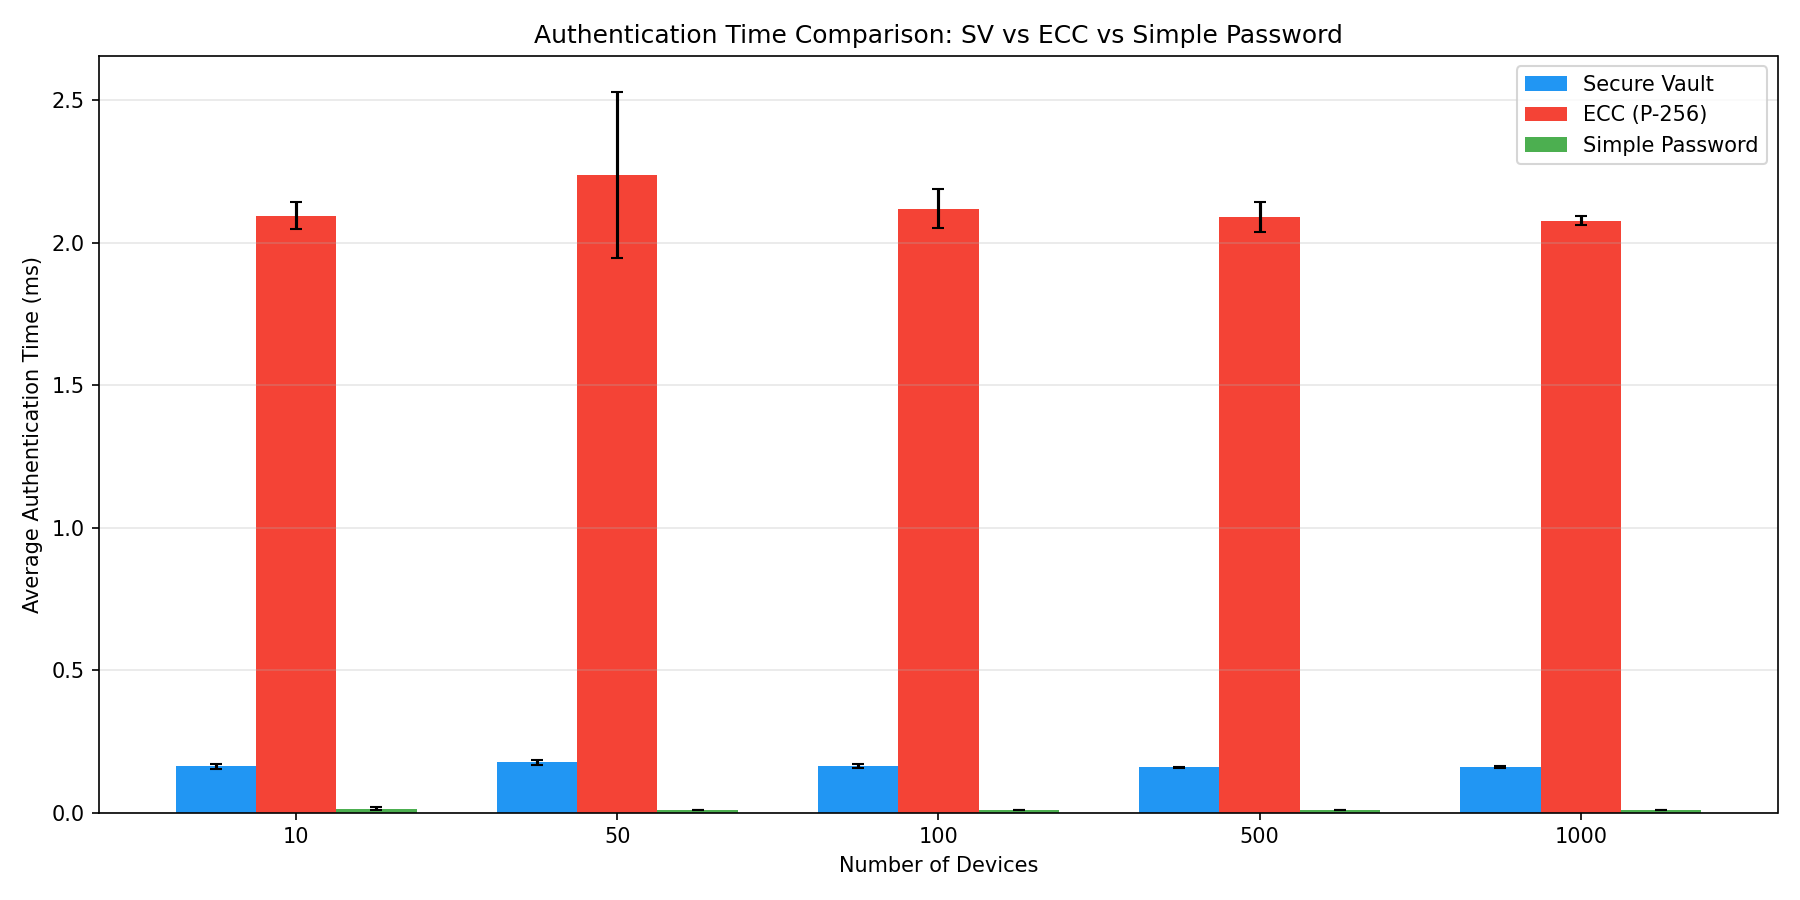
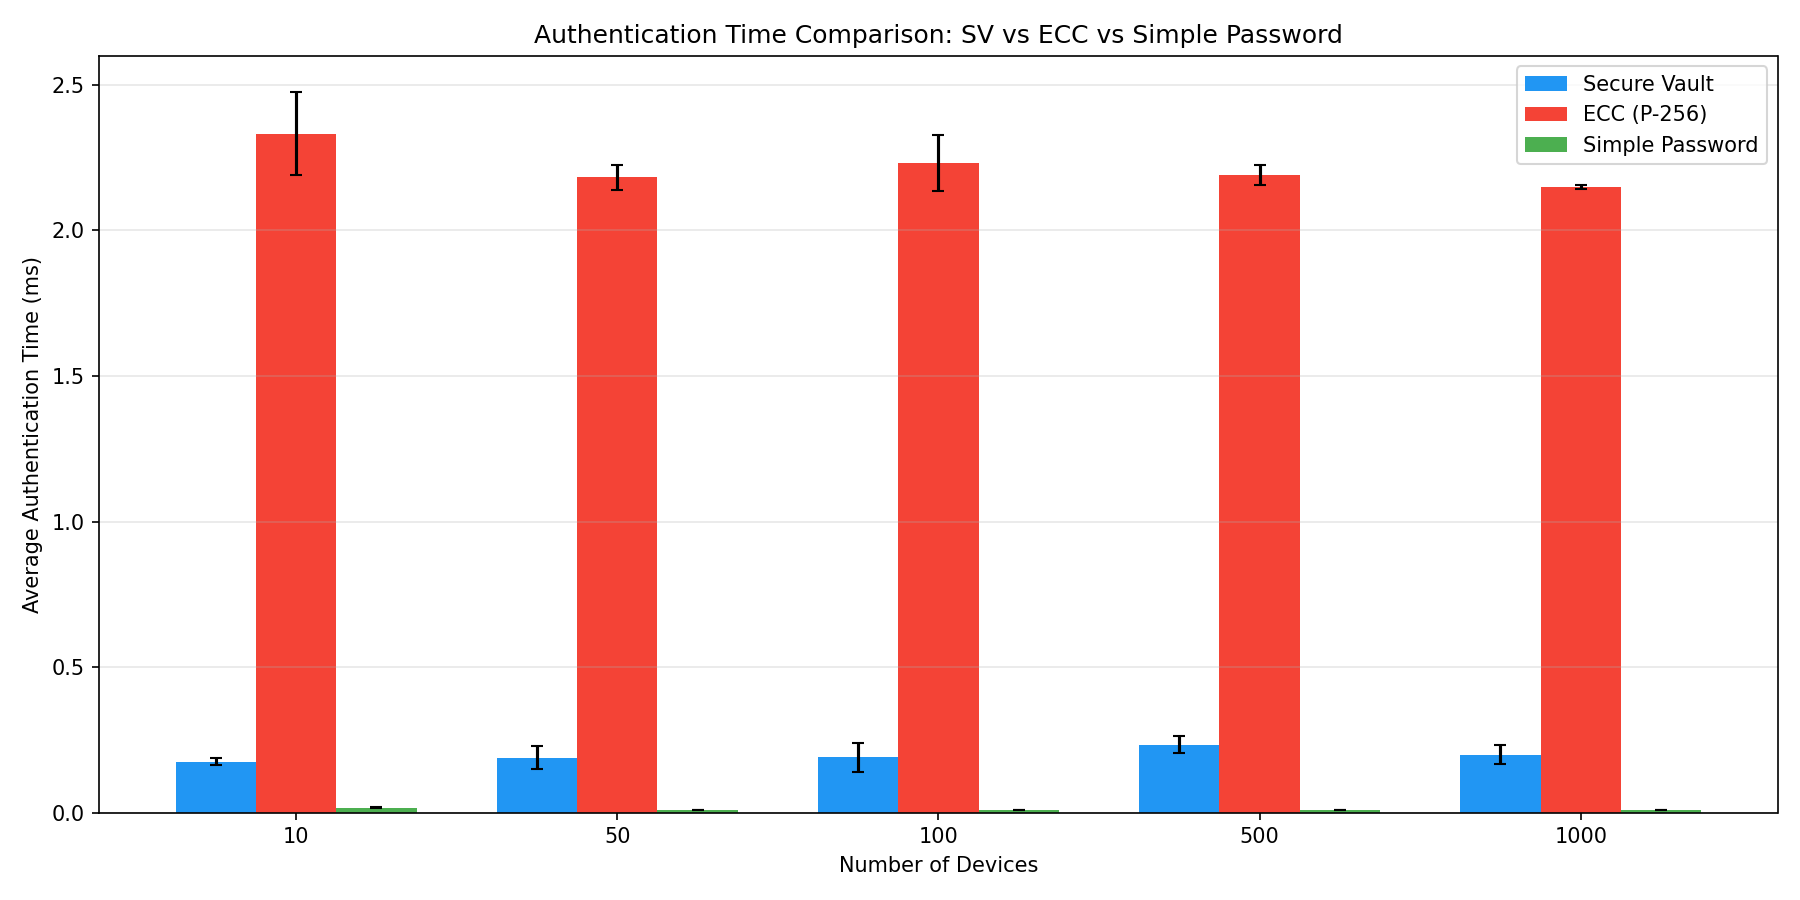
V3.0

diff --git a/main.py b/main.py
@@ -147,10 +147,17 @@ def main():
     )
     args = parser.parse_args()
 
-    # Set up logging: duplicate all print output to a .log file
+    # Determine log filename based on mode
     timestamp = datetime.now().strftime("%Y%m%d_%H%M%S")
+    if args.demo:
+        log_name = f"protocol_demo_{timestamp}.log"
+    elif args.experiment:
+        log_name = f"experiments_{timestamp}.log"
+    else:
+        log_name = f"demo_and_experiments_{timestamp}.log"
+
     log_dir = os.path.join(os.path.dirname(__file__), "results")
-    log_path = os.path.join(log_dir, f"simulation_output_{timestamp}.log")
+    log_path = os.path.join(log_dir, log_name)
     tee = TeeWriter(log_path)
     sys.stdout = tee
 
@@ -164,7 +171,7 @@ def main():
             run_demo()
             run_experiments()
 
-        tee._terminal.write(f"\nLog file saved to {log_path}\n")
+        tee._terminal.write(f"\nLog file saved to {os.path.relpath(log_path)}\n")
     finally:
         sys.stdout = tee._terminal
         tee.close()

diff --git a/config.py b/config.py
@@ -16,3 +16,7 @@ ECC_CURVE = "P-256"
 
 # --- Simple Password Parameters ---
 PASSWORD_LENGTH = 16  # bytes
+
+# --- Attack Simulation Parameters ---
+BRUTE_FORCE_ATTEMPTS = 50_000      # Number of random keys to try
+VAULT_RECOVERY_SESSIONS = 50       # Number of sessions to observe for GF(2) attack

diff --git a/README.md b/README.md
@@ -29,8 +29,8 @@ The Secure Vault protocol follows a 4-message mutual authentication handshake:
 ```
 FinalProject-CPS-IoTSec-IoTAuthentication/
 |
-|-- main.py                     # Entry point: protocol demo and experiment runner
-|-- config.py                   # Global constants (N, M, P, experiment parameters)
+|-- main.py                     # Part 1 entry point: demo + experiments
+|-- config.py                   # Global constants (N, M, P, experiment/attack parameters)
 |-- requirements.txt            # Python dependencies
 |-- README.md                   # This file
 |
@@ -45,11 +45,18 @@ FinalProject-CPS-IoTSec-IoTAuthentication/
 |   |-- __init__.py
 |   |-- experiments_comparison.py   # SV vs ECC vs Simple Password benchmarks
 |
-|-- results/                   # Generated output files (plots, logs)
+|-- Part 2-Attacks/             # Security attack simulations (Part 2)
+|   |-- __init__.py
+|   |-- main_attacks.py         # Part 2 entry point: run all attack simulations
+|   |-- crypto_attacks.py       # Brute force key guessing + vault key recovery (GF(2))
+|   |-- protocol_attacks.py     # Replay attack + Man-in-the-Middle (3 strategies)
+|
+|-- results/                    # Generated output files (plots, logs)
 |   |-- bar_chart_comparison.png
 |   |-- line_chart_scaling.png
 |   |-- bar_chart_log_scale.png
 |   |-- simulation_output_YYYYMMDD_HHMMSS.log
+|   |-- attacks_output_YYYYMMDD_HHMMSS.log
 |
 |-- .gitignore
 ```
@@ -64,6 +71,9 @@ FinalProject-CPS-IoTSec-IoTAuthentication/
 | `entities/device.py` | `IoTDevice` class -- implements the client side of the handshake (`step1_initiate`, `step3_respond`, `step5_finalize`) |
 | `entities/server.py` | `IoTServer` class -- implements the server side (`step2_challenge`, `step4_verify_and_respond`), manages registered devices and session state |
 | `experiments/experiments_comparison.py` | Runs all three authentication methods, measures per-device timing with `time.perf_counter()`, generates PrettyTable console output and matplotlib plots |
+| `Part 2-Attacks/main_attacks.py` | Standalone entry point for Part 2 -- runs all 4 attack simulations and displays a summary table |
+| `Part 2-Attacks/crypto_attacks.py` | Brute force key guessing (50K attempts vs 2^128 space) and vault key recovery via GF(2) constraint propagation |
+| `Part 2-Attacks/protocol_attacks.py` | Replay attack (post vault rotation) and MITM attack (3 strategies: r1 modification, message forgery, bit-flipping) |
 
 ---
 
@@ -95,15 +105,17 @@ pip install -r requirements.txt
 
 ## How to Run
 
-### Run Everything (Demo + Experiments)
+### Part 1: Protocol Demo + Experiments
+
+#### Run Everything (Demo + Experiments)
 
 ```bash
 python main.py
 ```
 
-This runs the protocol demo first, then the full experiment suite.
+This runs the protocol demo and the full experiment suite.
 
-### Run Protocol Demo Only
+#### Run Protocol Demo Only
 
 ```bash
 python main.py --demo
@@ -114,7 +126,7 @@ Executes 3 consecutive authentication sessions between a single device and serve
 - Vaults remain synchronized across multiple sessions
 - Mutual authentication succeeds (r1 and r2 validated)
 
-### Run Experiments Only
+#### Run Experiments Only
 
 ```bash
 python main.py --experiment
@@ -123,6 +135,14 @@ python main.py --experiment
 Benchmarks all three authentication methods (SV, ECC, Simple Password) across 5 device counts (10, 50, 100, 500, 1000 devices), averaged over 5 runs each. Outputs:
 - Console tables with mean, standard deviation, min, and max timings
 - Three plots saved to `results/`
+
+### Part 2: Security Attack Simulations
+
+```bash
+python "Part 2-Attacks/main_attacks.py"
+```
+
+Runs 4 attack simulations against the Secure Vault protocol to validate the paper's security claims. All attacks are expected to FAIL (protocol is SECURE). See the [Security Validation](#security-validation) section below for details.
 
 ---
 
@@ -212,15 +232,14 @@ All plots are saved to `results/`:
 | `line_chart_scaling.png` | Line chart showing how authentication time scales with number of devices |
 | `bar_chart_log_scale.png` | Same bar chart with logarithmic Y-axis, useful since ECC is ~13x slower than SV |
 
-### Log File
+### Log Files
 
 Every run automatically saves a complete copy of all terminal output to a timestamped `.log` file in `results/`:
 
 ```
-results/simulation_output_20260219_143025.log
+results/simulation_output_20260219_143025.log    # Part 1 (demo + experiments)
+results/attacks_output_20260219_143025.log        # Part 2 (attack simulations)
 ```
-
-The log file contains the exact same content shown in the terminal (demo trace, experiment progress, summary tables, plot save paths). This allows you to review past runs without re-executing the simulation.
 
 ---
 
@@ -243,6 +262,10 @@ ECC_CURVE = "P-256"
 
 # Simple password parameters
 PASSWORD_LENGTH = 16  # bytes
+
+# Attack simulation parameters
+BRUTE_FORCE_ATTEMPTS = 50_000      # Number of random keys to try
+VAULT_RECOVERY_SESSIONS = 50       # Number of sessions to observe for GF(2) attack
 ```
 
 ### Why N=16, M=16, P=6?
@@ -274,6 +297,43 @@ Each parameter has hard requirements imposed by the implementation:
 
 ---
 
+## Security Validation
+
+The `Part 2-Attacks/` module tests the protocol against 4 attack vectors -- 2 cryptographic and 2 protocol-level. All attacks use the same `entities/` code that runs the performance experiments, ensuring the validation applies to the exact implementation being benchmarked.
+
+### Attack Results
+
+```text
++----------------------------+---------------+--------+
+| Attack                     | Type          | Status |
++----------------------------+---------------+--------+
+| Brute Force Key Guessing   | Cryptographic | SECURE |
+| Vault Key Recovery (GF(2)) | Cryptographic | SECURE |
+| Replay Attack              | Protocol      | SECURE |
+| Man-in-the-Middle (MITM)   | Protocol      | SECURE |
++----------------------------+---------------+--------+
+```
+
+### Attack Descriptions
+
+| Attack | What It Does | Why It Fails |
+| ------ | ------------ | ------------ |
+| **Brute Force Key Guessing** | Generates 50,000 random M-byte keys, tries to decrypt captured M3 ciphertext, checks if plaintext contains the expected r1. P(success) = 50,000 / 2^128 ~ 10^-34 | Key space (2^128) is astronomically large -- exhaustive search is computationally infeasible |
+| **Vault Key Recovery (GF(2))** | Collects challenge-response pairs from multiple sessions and attempts constraint propagation over GF(2) to solve for individual vault keys | System is underdetermined (more unknowns than equations). Vault rotation after each session makes collected equations inconsistent |
+| **Replay Attack** | Captures M1 and M3 from a legitimate session, then replays them after the vault has been updated | Vault update changes all keys after each session -- old M3 was encrypted with a key derived from the old vault, which no longer matches |
+| **MITM -- 3 strategies** | (A) Modify r1 in M2, (B) Forge M3 with a random key, (C) Flip bits in M3 ciphertext | (A) r1 mismatch detected by server, (B) Wrong key produces invalid decryption, (C) Corrupted ciphertext fails PKCS7 unpadding or r1 verification |
+
+### Mapping to Paper's Security Claims
+
+| Paper's Claim | Validated By |
+| ------------- | ------------ |
+| Resistant to brute force | Attack 1: 50K keys tested against 2^128 space -- 0 successes |
+| Resistant to replay | Attack 3: replayed M3 rejected after vault rotation |
+| Resistant to MITM | Attack 4: all 3 tampering strategies blocked |
+| Vault update prevents dictionary attack | Attack 2: GF(2) recovery fails -- rotation destroys algebraic relationships |
+
+---
+
 ## References
 
 1. **S. Srinivas, A. Kumar, et al.** -- *"Authentication of IoT Device and IoT Server Using Secure Vaults"*, IEEE Internet of Things Journal. The reference paper that this project implements and evaluates. [(PDF included in repository)](Authentication_of_IoT_Device_and_IoT_Server_Using_Secure_Vaults.pdf)
@@ -287,4 +347,3 @@ Each parameter has hard requirements imposed by the implementation:
 5. **PrettyTable** -- Python library for formatted ASCII table output. https://github.com/jazzband/prettytable
 
 ---
-
